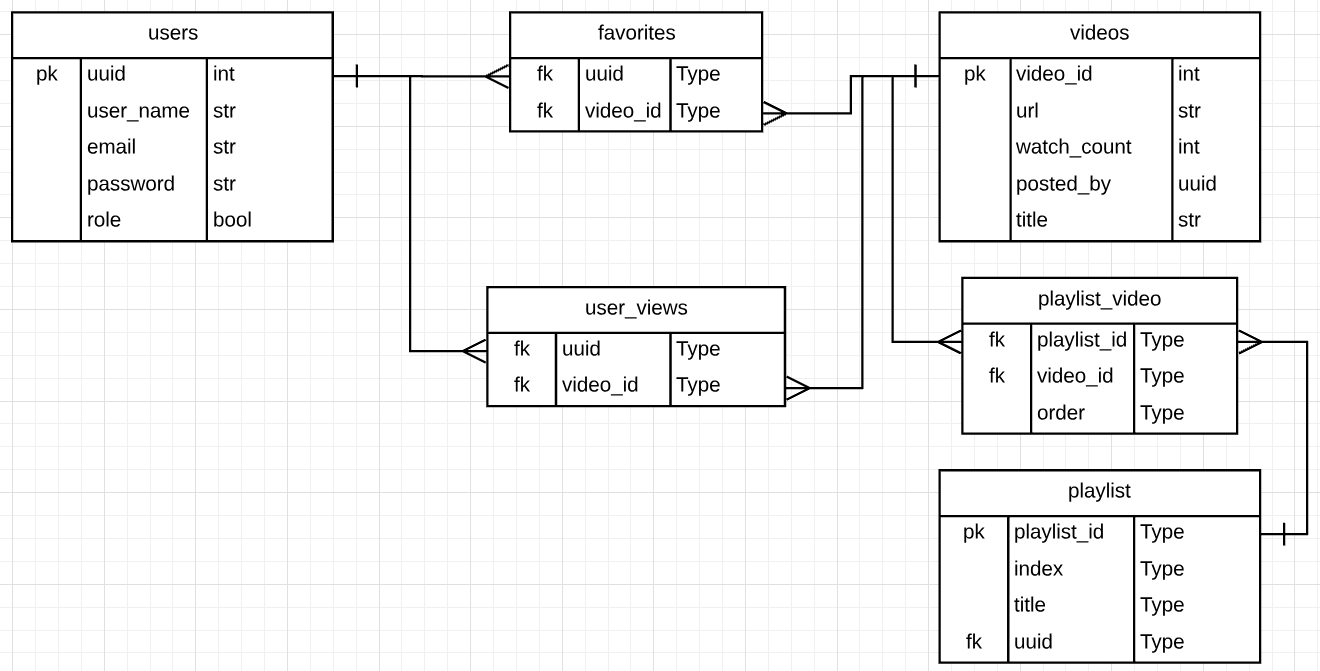
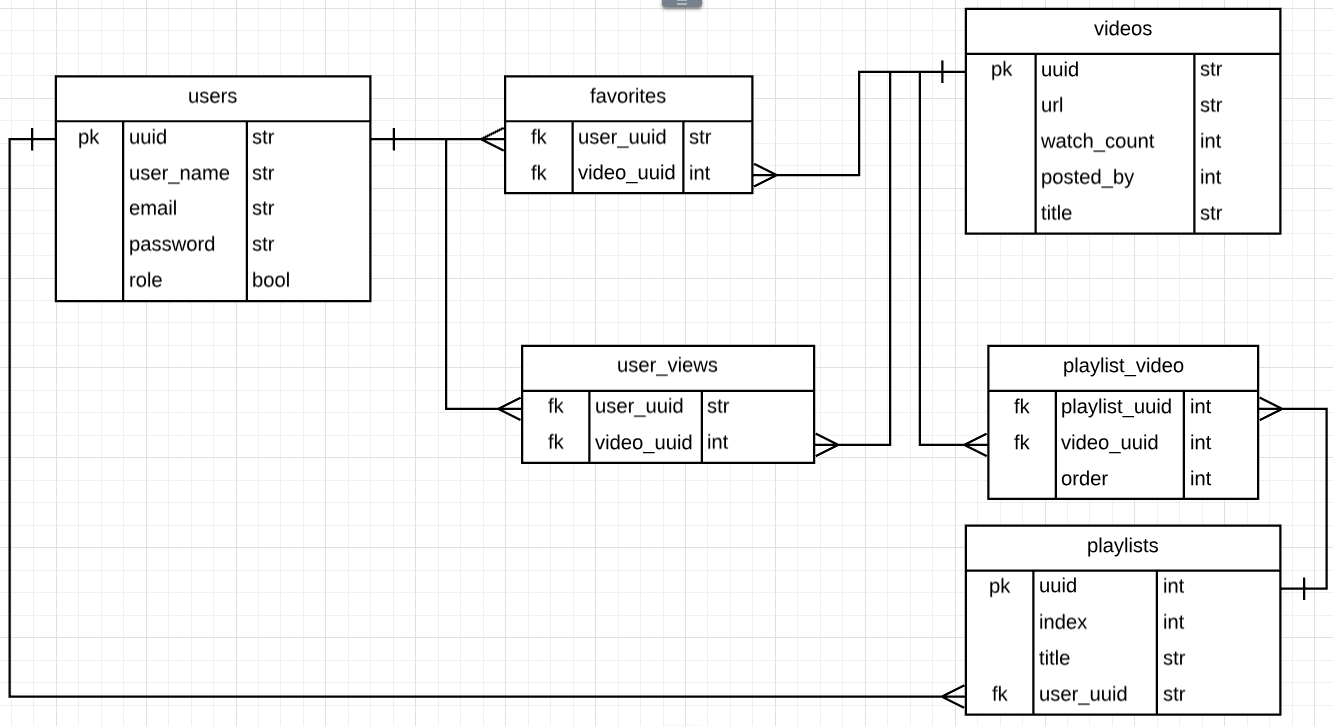
updates to playlist route

diff --git a/backend/routes/playlist.js b/backend/routes/playlist.js
@@ -1,0 +1,55 @@
+const express = require('express');
+const router = express.Router();
+const knex = require('../db/knex');
+
+// GET - return all playlists where user_id = user_id
+const playlists = {
+  one: { name: 'name', name: 'name', name: 'name' },
+  two: { name: 'name', name: 'name', name: 'name' },
+  three: { name: 'name', name: 'name', name: 'name' }
+};
+
+// GET - return playlist where playlist_id = playlist_id
+const playlistOne = {
+  id: 7,
+  title: '',
+  user_id: ''
+};
+const user = {
+  id: 1,
+  user_name: 'myname',
+  email: 'myemail@gmail.com',
+  password: 'h45h3d#P@5sW0rD',
+  is_admin: true,
+  favorites: {
+    favoriteOne: {
+      id: 1,
+      name: 'Whateva',
+      url: 'google.com/someshitserverlocation',
+      watch_count: 'ha',
+      user_id: '1'
+    }
+  },
+  playlists: {
+    one: {
+      name: 'name',
+      videos: {
+        videoOne: {
+          id: 1,
+          name: 'Whateva',
+          url: 'google.com/someshitserverlocation',
+          watch_count: 'ha',
+          user_id: '1'
+        }
+      }
+    }
+  }
+};
+
+id: name: url: watch_count: // user--playlist--playlist_video--video
+
+user_id: // POST - create an playlist record
+// POST - create an playlist_video record
+// PUT - update playlist record
+
+module.exports = router;

diff --git a/backend/db/migrations/20181205133214_users_views.js b/backend/db/migrations/20181205133214_users_views.js
@@ -1,8 +1,8 @@
 exports.up = (knex, Promise) => {
   return knex.schema.createTable('user_views', table => {
     table.increments('id');
-    table.foreign('userId').references('users.id');
-    table.foreign('videoId').references('videos.id');
+    table.foreign('user_id').references('users.id');
+    table.foreign('video_id').references('videos.id');
   });
 };
 

diff --git a/backend/db/migrations/20181205132913_users.js b/backend/db/migrations/20181205132913_users.js
@@ -1,10 +1,10 @@
 exports.up = (knex, Promise) => {
   return knex.schema.createTable('users', table => {
-    table.increments('id');
-    table.string('userName');
+    table.increments('id').primary();
+    table.string('user_name');
     table.unique('email');
     table.string('password');
-    table.bool('isAdmin');
+    table.bool('is_admin');
   });
 };
 

diff --git a/backend/db/migrations/20181205134459_playlist.js b/backend/db/migrations/20181205134459_playlist.js
@@ -2,7 +2,7 @@ exports.up = function(knex, Promise) {
   return knex.schema.createTable('playlist', table => {
     table.increments('id').primary();
     table.text('title');
-    table.number('uuid');
+    table.number('user_id');
   });
 };
 

diff --git a/backend/routes/index.js b/backend/routes/index.js
@@ -3,6 +3,5 @@ const router = express.Router();
 const knex = require('../db/knex');
 
 /* GET home page. */
-router.get('/', (req, res, next) => {});
 
 module.exports = router;
